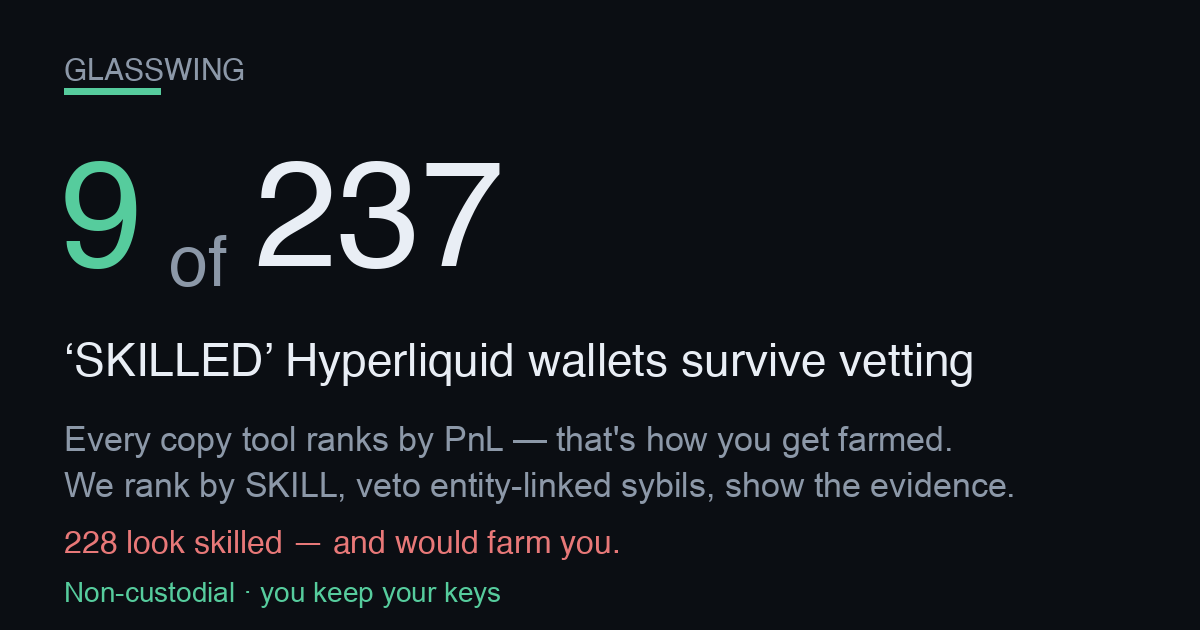
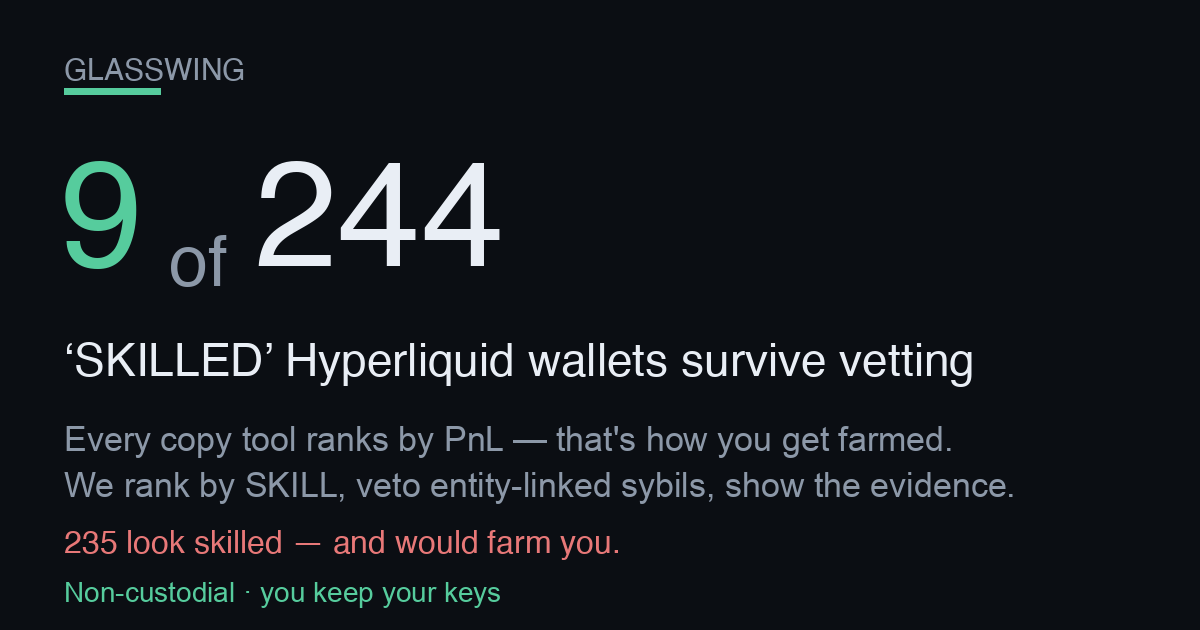
publish funnel 2026-08-17T03:25:38Z

Changed region(s): [[0.2775, 0.2413, 0.4317, 0.4222], [0.0617, 0.8444, 0.0925, 0.8746]]

diff --git a/screener.html b/screener.html
@@ -57,4 +57,4 @@ padding:11px 22px;font-size:15px;font-weight:800;border:1px solid var(--good)}
 footer{margin-top:34px;color:var(--muted);font-size:12px;line-height:1.6;
 border-top:1px solid var(--line);padding-top:16px}
 footer b{color:var(--ink)}
-</style></head><body><div class="wrap"><div class="nav"><a href="./index.html">&larr; Glasswing home</a><span class="sep">|</span><span>Edge Screener</span><span class="sep">|</span><a href="./dex.html">Copy a vetted leader</a></div><div class="hero"><h1>Hyperliquid Edge Screener</h1><div class="sub">Where&rsquo;s the carry, where a maker earns, and what&rsquo;s moving on Hyperliquid &mdash; live, computed from the public API. Bookmark it. Every number below is real and timestamped.</div><div class="stamp">Data as of <b>2026-08-16T15:04:35Z</b> &middot; rendered 2026-08-16T15:04:35Z &middot; 177 perps &middot; 94 HIP-3 (xyz) markets scanned</div></div><h2>Top funding &mdash; the carry table <span class="hint">perps ranked by annualized funding. Positive = longs pay shorts (a delta-neutral short earns it).</span></h2><div class="tblwrap"><table><thead><tr><th>Coin</th><th>Funding / hr</th><th>Annualized</th><th>Who pays</th><th>Open interest</th><th>24h volume</th></tr></thead><tbody><tr><td class="coin">ACE</td><td>-0.1350%</td><td class="neg">-1182.7%</td><td><span class="tag shorts">shorts pay</span></td><td>$1.5M</td><td>$4.1M</td></tr><tr><td class="coin">IOTA<span class="tag thin" title="Low liquidity/OI &mdash; ADL &amp; liquidation risk; funding can flip">&#9888; thin</span></td><td>-0.0146%</td><td class="neg">-128.0%</td><td><span class="tag shorts">shorts pay</span></td><td>$379K</td><td>$123K</td></tr><tr><td class="coin">UMA<span class="tag thin" title="Low liquidity/OI &mdash; ADL &amp; liquidation risk; funding can flip">&#9888; thin</span></td><td>-0.0141%</td><td class="neg">-123.7%</td><td><span class="tag shorts">shorts pay</span></td><td>$365K</td><td>$69K</td></tr><tr><td class="coin">XAI<span class="tag thin" title="Low liquidity/OI &mdash; ADL &amp; liquidation risk; funding can flip">&#9888; thin</span></td><td>-0.0118%</td><td class="neg">-103.0%</td><td><span class="tag shorts">shorts pay</span></td><td>$331K</td><td>$482K</td></tr><tr><td class="coin">STABLE</td><td>-0.0116%</td><td class="neg">-101.3%</td><td><span class="tag shorts">shorts pay</span></td><td>$1.6M</td><td>$632K</td></tr><tr><td class="coin">KAITO</td><td>-0.0092%</td><td class="neg">-80.7%</td><td><span class="tag shorts">shorts pay</span></td><td>$6.6M</td><td>$11.8M</td></tr><tr><td class="coin">XMR</td><td>+0.0077%</td><td class="pos">+67.3%</td><td><span class="tag longs">longs pay</span></td><td>$62.0M</td><td>$6.3M</td></tr><tr><td class="coin">ANIME<span class="tag thin" title="Low liquidity/OI &mdash; ADL &amp; liquidation risk; funding can flip">&#9888; thin</span></td><td>-0.0049%</td><td class="neg">-43.3%</td><td><span class="tag shorts">shorts pay</span></td><td>$155K</td><td>$77K</td></tr><tr><td class="coin">SUSHI<span class="tag thin" title="Low liquidity/OI &mdash; ADL &amp; liquidation risk; funding can flip">&#9888; thin</span></td><td>-0.0042%</td><td class="neg">-37.2%</td><td><span class="tag shorts">shorts pay</span></td><td>$335K</td><td>$149K</td></tr><tr><td class="coin">AVNT</td><td>-0.0041%</td><td class="neg">-35.9%</td><td><span class="tag shorts">shorts pay</span></td><td>$598K</td><td>$415K</td></tr><tr><td class="coin">TRUMP</td><td>-0.0040%</td><td class="neg">-35.1%</td><td><span class="tag shorts">shorts pay</span></td><td>$7.0M</td><td>$745K</td></tr><tr><td class="coin">ATOM</td><td>-0.0037%</td><td class="neg">-32.6%</td><td><span class="tag shorts">shorts pay</span></td><td>$1.9M</td><td>$303K</td></tr></tbody></table></div><h2>Widest HIP-3 spreads &mdash; where a maker earns <span class="hint">xyz: markets by impact-price spread vs the ~0.6bps round-trip fee. A resting limit order captures the gap.</span></h2><div class="tblwrap"><table><thead><tr><th>Market</th><th>Spread</th><th>vs 0.6bps fee</th><th>Mid</th><th>24h volume</th></tr></thead><tbody><tr><td class="coin">xyz:BIRD<span class="tag gm">growth</span></td><td>197.8 bps</td><td class="pos">+197.2 bps</td><td>2.5597</td><td>$10K</td></tr><tr><td class="coin">xyz:GIGADEV<span class="tag gm">growth</span></td><td>157.1 bps</td><td class="pos">+156.5 bps</td><td>61.4415</td><td>$19K</td></tr><tr><td class="coin">xyz:NCLD<span class="tag gm">growth</span></td><td>157.1 bps</td><td class="pos">+156.5 bps</td><td>27.3890</td><td>$266K</td></tr><tr><td class="coin">xyz:SOFTBANK<span class="tag gm">growth</span></td><td>140.6 bps</td><td class="pos">+140.0 bps</td><td>36.5580</td><td>$77K</td></tr><tr><td class="coin">xyz:GEV<span class="tag gm">growth</span></td><td>113.8 bps</td><td class="pos">+113.2 bps</td><td>1,062.95</td><td>$3K</td></tr><tr><td class="coin">xyz:LYTE<span class="tag gm">growth</span></td><td>97.5 bps</td><td class="pos">+96.9 bps</td><td>26.8430</td><td>$142K</td></tr><tr><td class="coin">xyz:URNM<span class="tag gm">growth</span></td><td>72.4 bps</td><td class="pos">+71.8 bps</td><td>54.5725</td><td>$8K</td></tr><tr><td class="coin">xyz:BOT<span class="tag gm">growth</span></td><td>68.1 bps</td><td class="pos">+67.5 bps</td><td>31.5395</td><td>$41K</td></tr><tr><td class="coin">xyz:DKNG<span class="tag gm">growth</span></td><td>60.1 bps</td><td class="pos">+59.5 bps</td><td>26.3190</td><td>$37K</td></tr><tr><td class="coin">xyz:ZM<span class="tag gm">growth</span></td><td>58.1 bps</td><td class="pos">+57.5 bps</td><td>107.1600</td><td>$28K</td></tr><tr><td class="coin">xyz:SHAZ<span class="tag gm">growth</span></td><td>56.2 bps</td><td class="pos">+55.6 bps</td><td>75.0505</td><td>$97K</td></tr><tr><td class="coin">xyz:KR200<span class="tag gm">growth</span></td><td>53.9 bps</td><td class="pos">+53.3 bps</td><td>1,097.20</td><td>$80K</td></tr></tbody></table></div><h2>Momentum &amp; volume &mdash; what&rsquo;s moving <span class="hint">perps by 24h volume with the 24h price change (mark vs prior-day).</span></h2><div class="tblwrap"><table><thead><tr><th>Coin</th><th>24h volume</th><th>24h change</th><th>Mark</th></tr></thead><tbody><tr><td class="coin">BTC</td><td>$259.2M</td><td class="pos">+0.11%</td><td>63,088.00</td></tr><tr><td class="coin">ETH</td><td>$137.4M</td><td class="neg">-0.04%</td><td>1,882.30</td></tr><tr><td class="coin">HYPE</td><td>$77.8M</td><td class="pos">+1.58%</td><td>57.1620</td></tr><tr><td class="coin">SOL</td><td>$21.9M</td><td class="neg">-0.01%</td><td>75.4060</td></tr><tr><td class="coin">PUMP</td><td>$21.5M</td><td class="neg">-2.79%</td><td>0.002718</td></tr><tr><td class="coin">LINK</td><td>$12.8M</td><td class="neg">-1.41%</td><td>9.3528</td></tr><tr><td class="coin">ZEC</td><td>$12.5M</td><td class="pos">+1.14%</td><td>494.8818</td></tr><tr><td class="coin">KAITO</td><td>$11.8M</td><td class="neg">-8.55%</td><td>0.34965</td></tr><tr><td class="coin">XRP</td><td>$10.7M</td><td class="neg">-0.02%</td><td>1.0012</td></tr><tr><td class="coin">BNB</td><td>$9.3M</td><td class="neg">-0.46%</td><td>607.5400</td></tr><tr><td class="coin">HEMI</td><td>$8.8M</td><td class="neg">-9.61%</td><td>0.005975</td></tr><tr><td class="coin">XMR</td><td>$6.3M</td><td class="pos">+2.86%</td><td>416.2100</td></tr></tbody></table></div><div class="cta"><h2>These are the opportunities. Now copy the people who trade them.</h2><p class="lead">Spotting the carry and the spreads is the easy part &mdash; sizing, timing and risk are where most traders bleed. Copy the <b>skill-vetted</b> Hyperliquid leaders who actually trade these edges. Non-custodial: <b>you keep your keys and your funds</b> the entire time.</p><div class="row"><a class="btn" href="./index.html">See the vetted leaders &rarr;</a><a class="btn ghost" href="./dex.html">Start copying (non-custodial) &rarr;</a></div><div class="nc"><b>Non-custodial &amp; honest:</b> we never hold your keys or funds. Copying routes through a <b>0.01%</b> (1bp) on-chain builder fee &mdash; that is the only thing we ever charge, and it is the same fee shown on the copy page. Nothing on this screener is executed for you; it is information only.</div></div><footer><b>Not financial advice.</b> Funding rates, spreads and volumes are live snapshots that change every block; figures can be stale by the time you act. A high funding rate is <b>not free money</b> &mdash; the biggest rates sit on the thinnest, most crowded books (flagged &#9888; thin), where funding can flip against you and auto-deleveraging (ADL) or liquidation can close your position. &ldquo;Spread&rdquo; here is the impact-price spread (a conservative maker signal), not a guaranteed fill. HIP-3 markets are experimental. Do your own research and size responsibly. Glasswing is <b>non-custodial</b> &mdash; we never take custody of your keys or funds.</footer></div></body></html>
+</style></head><body><div class="wrap"><div class="nav"><a href="./index.html">&larr; Glasswing home</a><span class="sep">|</span><span>Edge Screener</span><span class="sep">|</span><a href="./dex.html">Copy a vetted leader</a></div><div class="hero"><h1>Hyperliquid Edge Screener</h1><div class="sub">Where&rsquo;s the carry, where a maker earns, and what&rsquo;s moving on Hyperliquid &mdash; live, computed from the public API. Bookmark it. Every number below is real and timestamped.</div><div class="stamp">Data as of <b>2026-08-17T03:24:02Z</b> &middot; rendered 2026-08-17T03:24:02Z &middot; 177 perps &middot; 94 HIP-3 (xyz) markets scanned</div></div><h2>Top funding &mdash; the carry table <span class="hint">perps ranked by annualized funding. Positive = longs pay shorts (a delta-neutral short earns it).</span></h2><div class="tblwrap"><table><thead><tr><th>Coin</th><th>Funding / hr</th><th>Annualized</th><th>Who pays</th><th>Open interest</th><th>24h volume</th></tr></thead><tbody><tr><td class="coin">ACE</td><td>-0.1071%</td><td class="neg">-938.1%</td><td><span class="tag shorts">shorts pay</span></td><td>$1.7M</td><td>$2.8M</td></tr><tr><td class="coin">XAI<span class="tag thin" title="Low liquidity/OI &mdash; ADL &amp; liquidation risk; funding can flip">&#9888; thin</span></td><td>-0.0181%</td><td class="neg">-159.0%</td><td><span class="tag shorts">shorts pay</span></td><td>$357K</td><td>$516K</td></tr><tr><td class="coin">STABLE</td><td>-0.0089%</td><td class="neg">-78.2%</td><td><span class="tag shorts">shorts pay</span></td><td>$1.5M</td><td>$767K</td></tr><tr><td class="coin">NIL</td><td>-0.0080%</td><td class="neg">-70.1%</td><td><span class="tag shorts">shorts pay</span></td><td>$772K</td><td>$1.1M</td></tr><tr><td class="coin">FARTCOIN</td><td>+0.0055%</td><td class="pos">+48.4%</td><td><span class="tag longs">longs pay</span></td><td>$30.6M</td><td>$5.3M</td></tr><tr><td class="coin">CASHCAT</td><td>+0.0049%</td><td class="pos">+42.4%</td><td><span class="tag longs">longs pay</span></td><td>$13.6M</td><td>$10.1M</td></tr><tr><td class="coin">KAITO</td><td>-0.0044%</td><td class="neg">-38.5%</td><td><span class="tag shorts">shorts pay</span></td><td>$5.9M</td><td>$11.4M</td></tr><tr><td class="coin">UMA<span class="tag thin" title="Low liquidity/OI &mdash; ADL &amp; liquidation risk; funding can flip">&#9888; thin</span></td><td>-0.0040%</td><td class="neg">-35.0%</td><td><span class="tag shorts">shorts pay</span></td><td>$364K</td><td>$67K</td></tr><tr><td class="coin">ALT<span class="tag thin" title="Low liquidity/OI &mdash; ADL &amp; liquidation risk; funding can flip">&#9888; thin</span></td><td>-0.0034%</td><td class="neg">-30.1%</td><td><span class="tag shorts">shorts pay</span></td><td>$659K</td><td>$82K</td></tr><tr><td class="coin">INJ</td><td>-0.0032%</td><td class="neg">-28.1%</td><td><span class="tag shorts">shorts pay</span></td><td>$2.9M</td><td>$902K</td></tr><tr><td class="coin">TIA</td><td>-0.0028%</td><td class="neg">-24.2%</td><td><span class="tag shorts">shorts pay</span></td><td>$1.5M</td><td>$428K</td></tr><tr><td class="coin">AIXBT<span class="tag thin" title="Low liquidity/OI &mdash; ADL &amp; liquidation risk; funding can flip">&#9888; thin</span></td><td>-0.0025%</td><td class="neg">-22.0%</td><td><span class="tag shorts">shorts pay</span></td><td>$500K</td><td>$132K</td></tr></tbody></table></div><h2>Widest HIP-3 spreads &mdash; where a maker earns <span class="hint">xyz: markets by impact-price spread vs the ~0.6bps round-trip fee. A resting limit order captures the gap.</span></h2><div class="tblwrap"><table><thead><tr><th>Market</th><th>Spread</th><th>vs 0.6bps fee</th><th>Mid</th><th>24h volume</th></tr></thead><tbody><tr><td class="coin">xyz:BIRD<span class="tag gm">growth</span></td><td>161.5 bps</td><td class="pos">+160.9 bps</td><td>2.5598</td><td>$7K</td></tr><tr><td class="coin">xyz:NCLD<span class="tag gm">growth</span></td><td>133.1 bps</td><td class="pos">+132.5 bps</td><td>27.4535</td><td>$249K</td></tr><tr><td class="coin">xyz:URNM<span class="tag gm">growth</span></td><td>77.7 bps</td><td class="pos">+77.1 bps</td><td>55.5575</td><td>$65K</td></tr><tr><td class="coin">xyz:GEV<span class="tag gm">growth</span></td><td>70.0 bps</td><td class="pos">+69.4 bps</td><td>1,065.90</td><td>$2K</td></tr><tr><td class="coin">xyz:PURRDAT</td><td>53.5 bps</td><td class="pos">+52.9 bps</td><td>7.1170</td><td>$5.4M</td></tr><tr><td class="coin">xyz:DKNG<span class="tag gm">growth</span></td><td>52.5 bps</td><td class="pos">+51.9 bps</td><td>26.1810</td><td>$34K</td></tr><tr><td class="coin">xyz:BOT<span class="tag gm">growth</span></td><td>51.0 bps</td><td class="pos">+50.4 bps</td><td>32.1395</td><td>$247K</td></tr><tr><td class="coin">xyz:EWT<span class="tag gm">growth</span></td><td>50.8 bps</td><td class="pos">+50.2 bps</td><td>107.6050</td><td>$125K</td></tr><tr><td class="coin">xyz:EBAY<span class="tag gm">growth</span></td><td>50.3 bps</td><td class="pos">+49.7 bps</td><td>104.2900</td><td>$16K</td></tr><tr><td class="coin">xyz:SHAZ<span class="tag gm">growth</span></td><td>48.5 bps</td><td class="pos">+47.9 bps</td><td>77.0965</td><td>$886K</td></tr><tr><td class="coin">xyz:GIGADEV<span class="tag gm">growth</span></td><td>45.8 bps</td><td class="pos">+45.2 bps</td><td>65.0325</td><td>$178K</td></tr><tr><td class="coin">xyz:SOFTBANK<span class="tag gm">growth</span></td><td>44.3 bps</td><td class="pos">+43.7 bps</td><td>36.3960</td><td>$201K</td></tr></tbody></table></div><h2>Momentum &amp; volume &mdash; what&rsquo;s moving <span class="hint">perps by 24h volume with the 24h price change (mark vs prior-day).</span></h2><div class="tblwrap"><table><thead><tr><th>Coin</th><th>24h volume</th><th>24h change</th><th>Mark</th></tr></thead><tbody><tr><td class="coin">BTC</td><td>$1.05B</td><td class="pos">+0.37%</td><td>63,332.00</td></tr><tr><td class="coin">ETH</td><td>$438.8M</td><td class="pos">+0.85%</td><td>1,898.84</td></tr><tr><td class="coin">HYPE</td><td>$136.7M</td><td class="pos">+3.21%</td><td>58.8310</td></tr><tr><td class="coin">SOL</td><td>$55.4M</td><td class="neg">-0.18%</td><td>75.4340</td></tr><tr><td class="coin">PUMP</td><td>$31.3M</td><td class="pos">+1.41%</td><td>0.002807</td></tr><tr><td class="coin">ZEC</td><td>$18.8M</td><td class="pos">+1.34%</td><td>492.6300</td></tr><tr><td class="coin">XRP</td><td>$18.7M</td><td class="neg">-0.09%</td><td>1.0009</td></tr><tr><td class="coin">KAITO</td><td>$11.4M</td><td class="neg">-3.72%</td><td>0.33865</td></tr><tr><td class="coin">LINK</td><td>$10.9M</td><td class="pos">+0.78%</td><td>9.5042</td></tr><tr><td class="coin">WLD</td><td>$10.5M</td><td class="pos">+4.60%</td><td>0.36596</td></tr><tr><td class="coin">CASHCAT</td><td>$10.1M</td><td class="neg">-13.65%</td><td>0.099803</td></tr><tr><td class="coin">BNB</td><td>$8.2M</td><td class="neg">-0.33%</td><td>603.9900</td></tr></tbody></table></div><div class="cta"><h2>These are the opportunities. Now copy the people who trade them.</h2><p class="lead">Spotting the carry and the spreads is the easy part &mdash; sizing, timing and risk are where most traders bleed. Copy the <b>skill-vetted</b> Hyperliquid leaders who actually trade these edges. Non-custodial: <b>you keep your keys and your funds</b> the entire time.</p><div class="row"><a class="btn" href="./index.html">See the vetted leaders &rarr;</a><a class="btn ghost" href="./dex.html">Start copying (non-custodial) &rarr;</a></div><div class="nc"><b>Non-custodial &amp; honest:</b> we never hold your keys or funds. Copying routes through a <b>0.01%</b> (1bp) on-chain builder fee &mdash; that is the only thing we ever charge, and it is the same fee shown on the copy page. Nothing on this screener is executed for you; it is information only.</div></div><footer><b>Not financial advice.</b> Funding rates, spreads and volumes are live snapshots that change every block; figures can be stale by the time you act. A high funding rate is <b>not free money</b> &mdash; the biggest rates sit on the thinnest, most crowded books (flagged &#9888; thin), where funding can flip against you and auto-deleveraging (ADL) or liquidation can close your position. &ldquo;Spread&rdquo; here is the impact-price spread (a conservative maker signal), not a guaranteed fill. HIP-3 markets are experimental. Do your own research and size responsibly. Glasswing is <b>non-custodial</b> &mdash; we never take custody of your keys or funds.</footer></div></body></html>

diff --git a/track.html b/track.html
@@ -62,35 +62,35 @@ font-weight:600;font-size:14px}
 <div class="wrap">
   <div class="hero">
     <h1>Self-verifying on-chain track record</h1>
-    <div class="big">$196.17</div>
+    <div class="big">$211.03</div>
     <div class="sub">current on-chain equity (perp + vault + spot USDC)</div>
     <div class="addr">0xbe6C1b09662BbE52CC93279D103Feb27985DdBc1</div>
-    <div class="stage early">28 days live — EARLY / NOT YET A MATURE RECORD</div>
+    <div class="stage early">29 days live — EARLY / NOT YET A MATURE RECORD</div>
   </div>
 
-  <div class="warnbar">EARLY-STAGE: this record is only 28 days live. It is NOT a mature track record and NOT an APR promise. We deliberately do not annualize a sample this young. Verify every figure yourself below.</div>
+  <div class="warnbar">EARLY-STAGE: this record is only 29 days live. It is NOT a mature track record and NOT an APR promise. We deliberately do not annualize a sample this young. Verify every figure yourself below.</div>
 
   <h2>On-chain figures <span style="color:var(--muted);font-weight:400;font-size:13px">
   &mdash; every one reproducible from the public info API</span></h2>
-  <table><tbody><tr><td class="k">On-chain equity (perp + vault + spot USDC)</td><td class="v">$196.17</td></tr><tr><td class="k">Perp account value</td><td class="v">$145.19</td></tr><tr><td class="k">Vault equity</td><td class="v">$50.43</td></tr><tr><td class="k">Spot USDC</td><td class="v">$0.55</td></tr><tr><td class="k">Withdrawable</td><td class="v">$0.39</td></tr></tbody></table>
+  <table><tbody><tr><td class="k">On-chain equity (perp + vault + spot USDC)</td><td class="v">$211.03</td></tr><tr><td class="k">Perp account value</td><td class="v">$160.28</td></tr><tr><td class="k">Vault equity</td><td class="v">$50.20</td></tr><tr><td class="k">Spot USDC</td><td class="v">$0.55</td></tr><tr><td class="k">Withdrawable</td><td class="v">$0.38</td></tr></tbody></table>
 
-  <h2>Vault deposits (on-chain)</h2><table><thead><tr><th>Vault address</th><th>Our equity</th></tr></thead><tbody><tr><td class="mono">0x2431edfcb662e6ff6deab113cc91878a0b53fb0f</td><td class="v">$0.01</td></tr><tr><td class="mono">0x697bc3dd77539fa84156d0e1c95287ea5524fd6b</td><td class="v">$25.73</td></tr><tr><td class="mono">0x8825e6ed11c7f9c0874579c9f4bba192b9e81c8f</td><td class="v">$0.12</td></tr><tr><td class="mono">0xc71f5a493b937e4b1798b86510630336a6dfd804</td><td class="v">$24.58</td></tr></tbody></table>
+  <h2>Vault deposits (on-chain)</h2><table><thead><tr><th>Vault address</th><th>Our equity</th></tr></thead><tbody><tr><td class="mono">0x2431edfcb662e6ff6deab113cc91878a0b53fb0f</td><td class="v">$0.01</td></tr><tr><td class="mono">0x697bc3dd77539fa84156d0e1c95287ea5524fd6b</td><td class="v">$25.43</td></tr><tr><td class="mono">0x8825e6ed11c7f9c0874579c9f4bba192b9e81c8f</td><td class="v">$0.12</td></tr><tr><td class="mono">0xc71f5a493b937e4b1798b86510630336a6dfd804</td><td class="v">$24.64</td></tr></tbody></table>
 
   <h2>Performance <span style="color:var(--muted);font-weight:400;font-size:13px">
   &mdash; honest stage, no annualization</span></h2>
-  <table><tbody><tr><td class="k">Days live (our formal record)</td><td class="v">28</td></tr><tr><td class="k">Maturity</td><td class="v">EARLY / NOT YET A MATURE RECORD</td></tr><tr><td class="k">Current real strategy income / day</td><td class="v">$3.7833</td></tr><tr><td class="k">Cumulative net income (if attributed)</td><td class="v">$33.6817</td></tr><tr><td class="k">Annualized APR</td><td class="v">intentionally NOT computed (record too young)</td></tr></tbody></table>
+  <table><tbody><tr><td class="k">Days live (our formal record)</td><td class="v">29</td></tr><tr><td class="k">Maturity</td><td class="v">EARLY / NOT YET A MATURE RECORD</td></tr><tr><td class="k">Current real strategy income / day</td><td class="v">$3.3635</td></tr><tr><td class="k">Cumulative net income (if attributed)</td><td class="v">$34.4955</td></tr><tr><td class="k">Annualized APR</td><td class="v">intentionally NOT computed (record too young)</td></tr></tbody></table>
 
   <h2>Strategy arms <span style="color:var(--muted);font-weight:400;font-size:13px">
   &mdash; internal marks, cross-checkable against chain equity</span></h2>
-  <table><thead><tr><th>Arm</th><th>Status</th><th>Real / day</th><th>Note</th></tr></thead><tbody><tr><td class="v">carry</td><td><span class="badge live">live</span></td><td class="v">$3.7833</td><td class="k"></td></tr><tr><td class="v">copy</td><td><span class="badge live">live</span></td><td class="v">$0.0000</td><td class="k"></td></tr><tr><td class="v">builder</td><td><span class="badge off">—</span></td><td class="v">$0.0000</td><td class="k">proven live; $0 until distributed (∝ users&#x27; volume)</td></tr></tbody></table>
+  <table><thead><tr><th>Arm</th><th>Status</th><th>Real / day</th><th>Note</th></tr></thead><tbody><tr><td class="v">carry</td><td><span class="badge live">live</span></td><td class="v">$3.3635</td><td class="k"></td></tr><tr><td class="v">copy</td><td><span class="badge live">live</span></td><td class="v">$0.0000</td><td class="k"></td></tr><tr><td class="v">builder</td><td><span class="badge off">—</span></td><td class="v">$0.0000</td><td class="k">proven live; $0 until distributed (∝ users&#x27; volume)</td></tr></tbody></table>
 
   <h2>Reproduce it</h2>
   <div class="verify"><h3>Verify this yourself</h3><p>These are PUBLIC calls. Run them yourself against the address below and you will re-derive every on-chain figure on this page. equity_usd = perp accountValue + vault equity + spot USDC. Endpoint: https://api.hyperliquid.xyz/info</p><div class="cn">clearinghouseState &rarr; marginSummary.accountValue (perp value), withdrawable, marginSummary.totalMarginUsed</div><pre>curl -s -X POST https://api.hyperliquid.xyz/info -H &#x27;Content-Type: application/json&#x27; -d &#x27;{&quot;type&quot;: &quot;clearinghouseState&quot;, &quot;user&quot;: &quot;0xbe6C1b09662BbE52CC93279D103Feb27985DdBc1&quot;}&#x27;</pre><div class="cn">userVaultEquities &rarr; sum of each entry&#x27;s equity (our vault deposits)</div><pre>curl -s -X POST https://api.hyperliquid.xyz/info -H &#x27;Content-Type: application/json&#x27; -d &#x27;{&quot;type&quot;: &quot;userVaultEquities&quot;, &quot;user&quot;: &quot;0xbe6C1b09662BbE52CC93279D103Feb27985DdBc1&quot;}&#x27;</pre><div class="cn">spotClearinghouseState &rarr; balances[] where coin==USDC -&gt; total (spot USDC)</div><pre>curl -s -X POST https://api.hyperliquid.xyz/info -H &#x27;Content-Type: application/json&#x27; -d &#x27;{&quot;type&quot;: &quot;spotClearinghouseState&quot;, &quot;user&quot;: &quot;0xbe6C1b09662BbE52CC93279D103Feb27985DdBc1&quot;}&#x27;</pre></div>
 
   <footer>
     <div>Self-verifying: every on-chain figure is reproducible by querying Hyperliquid&#x27;s public info API for the stated address. Internal daily marks are cross-checkable against on-chain equity. EARLY-STAGE record — not a mature track record, not an APR promise, not financial advice. Past performance != future results.</div>
-    <div class="stamp">Generated at 2026-08-16T15:00:16Z &middot; internal marks
-    mtime 2026-08-16T14:43:48Z &middot; static receipt, no live
+    <div class="stamp">Generated at 2026-08-17T03:23:14Z &middot; internal marks
+    mtime 2026-08-17T02:44:08Z &middot; static receipt, no live
     authority — this page never trades or arms.</div>
   </footer>
 </div>

diff --git a/index.html b/index.html
@@ -3,8 +3,8 @@
 <head>
 <meta charset="utf-8">
 <meta name="viewport" content="width=device-width, initial-scale=1">
-<title>9 of 237 SKILLED Hyperliquid wallets survive vetting</title>
-<meta name="description" content="9 of 237 leaderboard-SKILLED Hyperliquid wallets survive vetting. Copy only the survivors, non-custodial — you keep your keys and funds.">
+<title>9 of 244 SKILLED Hyperliquid wallets survive vetting</title>
+<meta name="description" content="9 of 244 leaderboard-SKILLED Hyperliquid wallets survive vetting. Copy only the survivors, non-custodial — you keep your keys and funds.">
 <link rel="canonical" href="https://dynobit.github.io/glasswing/">
 <meta name="robots" content="index,follow">
 <meta name="theme-color" content="#0b0e13">
@@ -14,14 +14,14 @@
      head, not this. og:url is the canonical Pages home so every share resolves here. -->
 <meta property="og:type" content="website">
 <meta property="og:site_name" content="Glasswing">
-<meta property="og:title" content="9 of 237 SKILLED Hyperliquid wallets survive vetting">
+<meta property="og:title" content="9 of 244 SKILLED Hyperliquid wallets survive vetting">
 <meta property="og:description" content="Every copy tool ranks leaders by PnL — which is how you get farmed. This ranks by SKILL, then vetoes entity-linked sybils, and shows the evidence for every reject. Non-custodial: you keep your keys.">
 <meta property="og:url" content="https://dynobit.github.io/glasswing/">
 <meta property="og:image" content="https://dynobit.github.io/glasswing/og-card.png">
 <meta property="og:image:width" content="1200">
 <meta property="og:image:height" content="630">
 <meta name="twitter:card" content="summary_large_image">
-<meta name="twitter:title" content="9 of 237 SKILLED Hyperliquid wallets survive vetting">
+<meta name="twitter:title" content="9 of 244 SKILLED Hyperliquid wallets survive vetting">
 <meta name="twitter:description" content="Skill-ranked (not PnL-ranked) HL copy-leaders, entity-linked sybils vetoed with evidence. Non-custodial.">
 <meta name="twitter:image" content="https://dynobit.github.io/glasswing/og-card.png">
 <style>
@@ -135,18 +135,18 @@ footer .nc{color:var(--good);font-weight:600}
 
   <!-- 1. HERO — the shareable hook (screenshot-worthy) -->
   <div class="hero">
-    <h1><span class="big">9 of 237</span> &lsquo;SKILLED&rsquo;
+    <h1><span class="big">9 of 244</span> &lsquo;SKILLED&rsquo;
     Hyperliquid wallets survive vetting</h1>
-    <div class="sub">The other <span class="trap">228</span> look skilled on a
+    <div class="sub">The other <span class="trap">235</span> look skilled on a
     raw copy leaderboard but would farm you &mdash; here are the
-    <span class="trap">228</span> that would. Entity-linked sybils,
-    wash-traded track records, or simply unscreened. 3.8% survive.
-    Universe: 2011 scored wallets.</div>
+    <span class="trap">235</span> that would. Entity-linked sybils,
+    wash-traded track records, or simply unscreened. 3.7% survive.
+    Universe: 2044 scored wallets.</div>
   </div>
 
   <!-- 2. THE WEDGE — the marketing (why us, not any other copy tool) -->
   <div class="wedge"><span class="them">Every other copy tool ranks all
-    237 by PnL and calls it a leaderboard.</span> We are the only one that
+    244 by PnL and calls it a leaderboard.</span> We are the only one that
     <b>flags the entity-linked and farming wallets with on-chain evidence</b> &mdash;
     transfer-graph linkage between wallets and arXiv memecoin farm-features &mdash;
     and shows you only the 9 that survive. A high PnL is exactly what a
@@ -268,7 +268,7 @@ footer .nc{color:var(--good);font-weight:600}
   <footer>
     <div class="nc">Non-custodial: we never hold your keys or funds. No server, no backend. Your browser talks only to Hyperliquid&#x27;s public API.</div>
     <div>Advisory. Skill = sign-randomization null vs luck. Entity veto = public transfer-graph linkage. Farm screen = arXiv:2601.08641 features (memecoin thresholds, HL-uncalibrated). Follower-realizable PnL is NOT yet proven — a PRE-COMMITTED forward test is in progress (0/2 windows, earliest 2026-08-13); the copyability claim publishes only when the pre-registered windows close, so it cannot be discovery-mined. Exit-alpha shown is advisory. Not financial advice.</div>
-    <div class="stamp">Generated at 2026-08-16T15:02:05Z &middot; single-file funnel,
+    <div class="stamp">Generated at 2026-08-17T03:23:39Z &middot; single-file funnel,
     no live authority. In-browser order signing is IMPLEMENTED (real secp256k1 +
     keccak + msgpack EIP-712 from a pinned CDN) but UNVALIDATED against Hyperliquid:
     mainnet is blocked until a testnet order is proven accepted.</div>

diff --git a/dex.html b/dex.html
@@ -112,8 +112,8 @@ footer .nc{color:var(--good);font-weight:600}
     funds and your keys the whole time. Two signatures in your own wallet, an
     ephemeral in-browser agent key that can trade but never withdraw, and a
     client-side loop that mirrors only the
-    <b>9 of 237</b> vetted survivors
-    (universe: 2011 scored wallets). No server, no backend.</div>
+    <b>9 of 244</b> vetted survivors
+    (universe: 2044 scored wallets). No server, no backend.</div>
     <div class="tag">static bundle &middot; IPFS-publishable &middot; revenue accrues on-chain</div>
   </div>
 
@@ -217,7 +217,7 @@ footer .nc{color:var(--good);font-weight:600}
   <footer>
     <div class="nc">Pure DEX, self-custodial. No server, no backend, no key we ever hold. Your browser talks only to Hyperliquid&#x27;s public API.</div>
     <div>Advisory. Skill = sign-randomization null vs luck. Entity veto = public transfer-graph linkage. Farm screen = arXiv:2601.08641 features (memecoin thresholds, HL-uncalibrated). Follower-realizable PnL is NOT yet proven — a PRE-COMMITTED forward test is in progress (0/2 windows, earliest 2026-08-13); the copyability claim publishes only when the pre-registered windows close, so it cannot be discovery-mined. Exit-alpha shown is advisory. Not financial advice.</div>
-    <div class="stamp">Generated at 2026-08-16T15:02:05Z &middot; static,
+    <div class="stamp">Generated at 2026-08-17T03:23:39Z &middot; static,
     self-custodial surface, no live authority. In-browser order signing is
     IMPLEMENTED (real secp256k1 + keccak + msgpack EIP-712 from a pinned CDN) but
     UNVALIDATED against Hyperliquid: mainnet is blocked until a testnet order is
